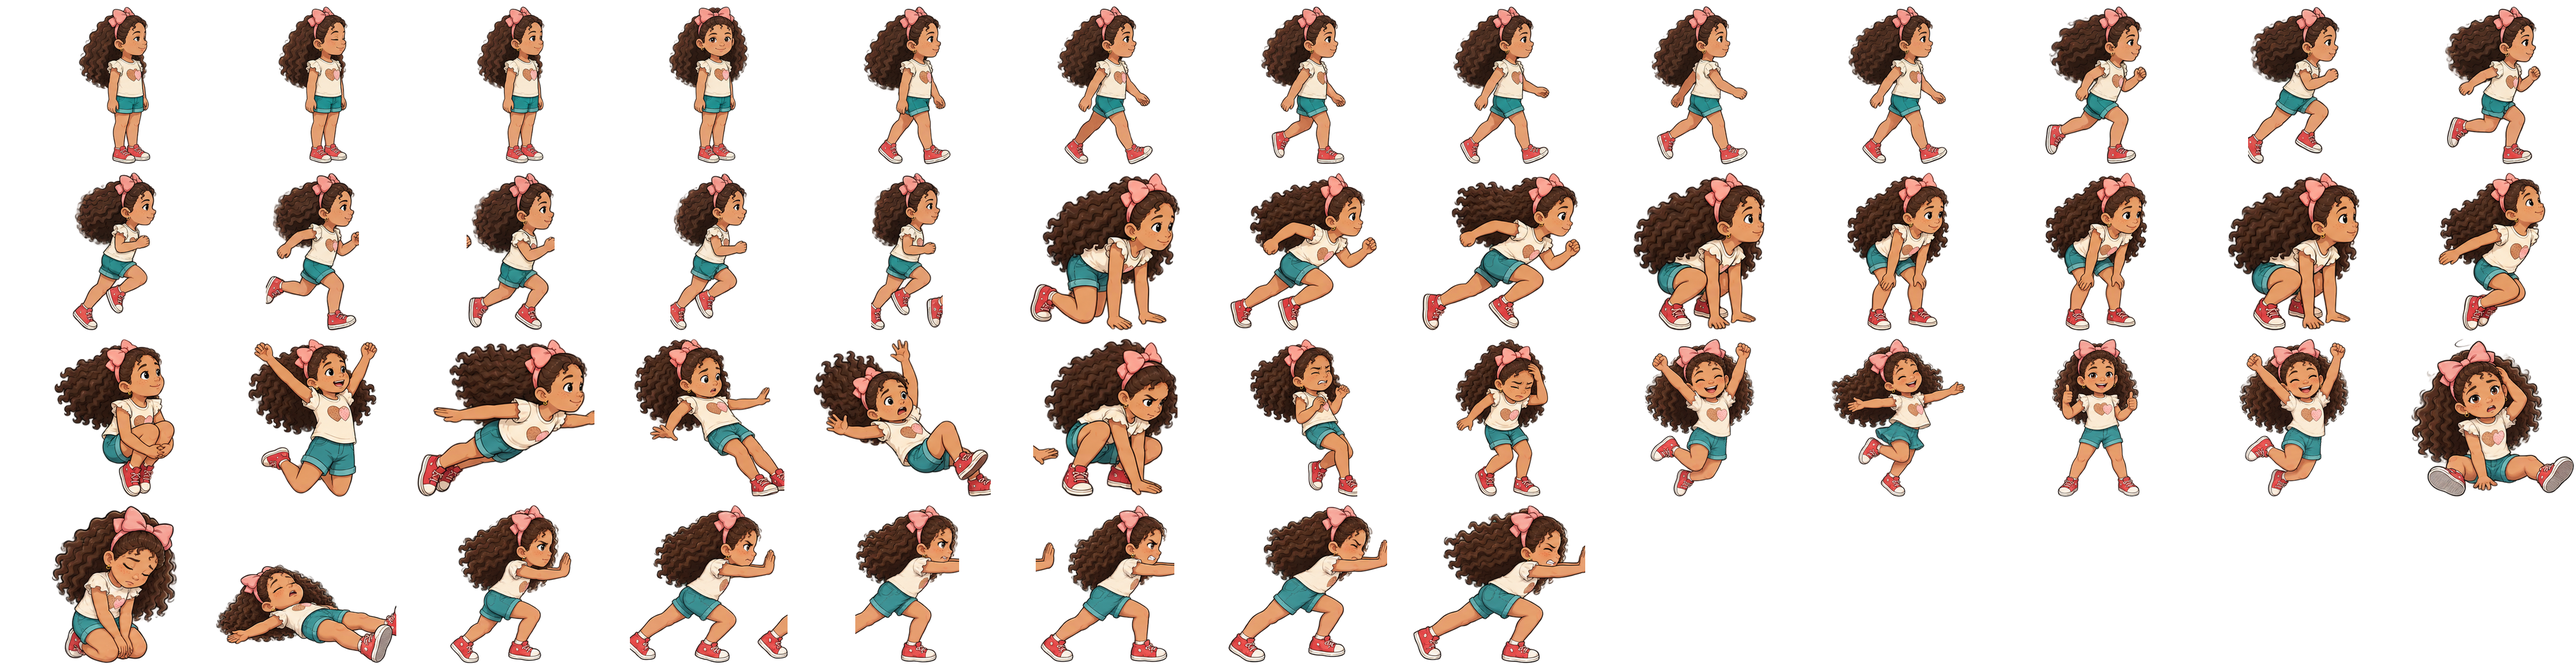
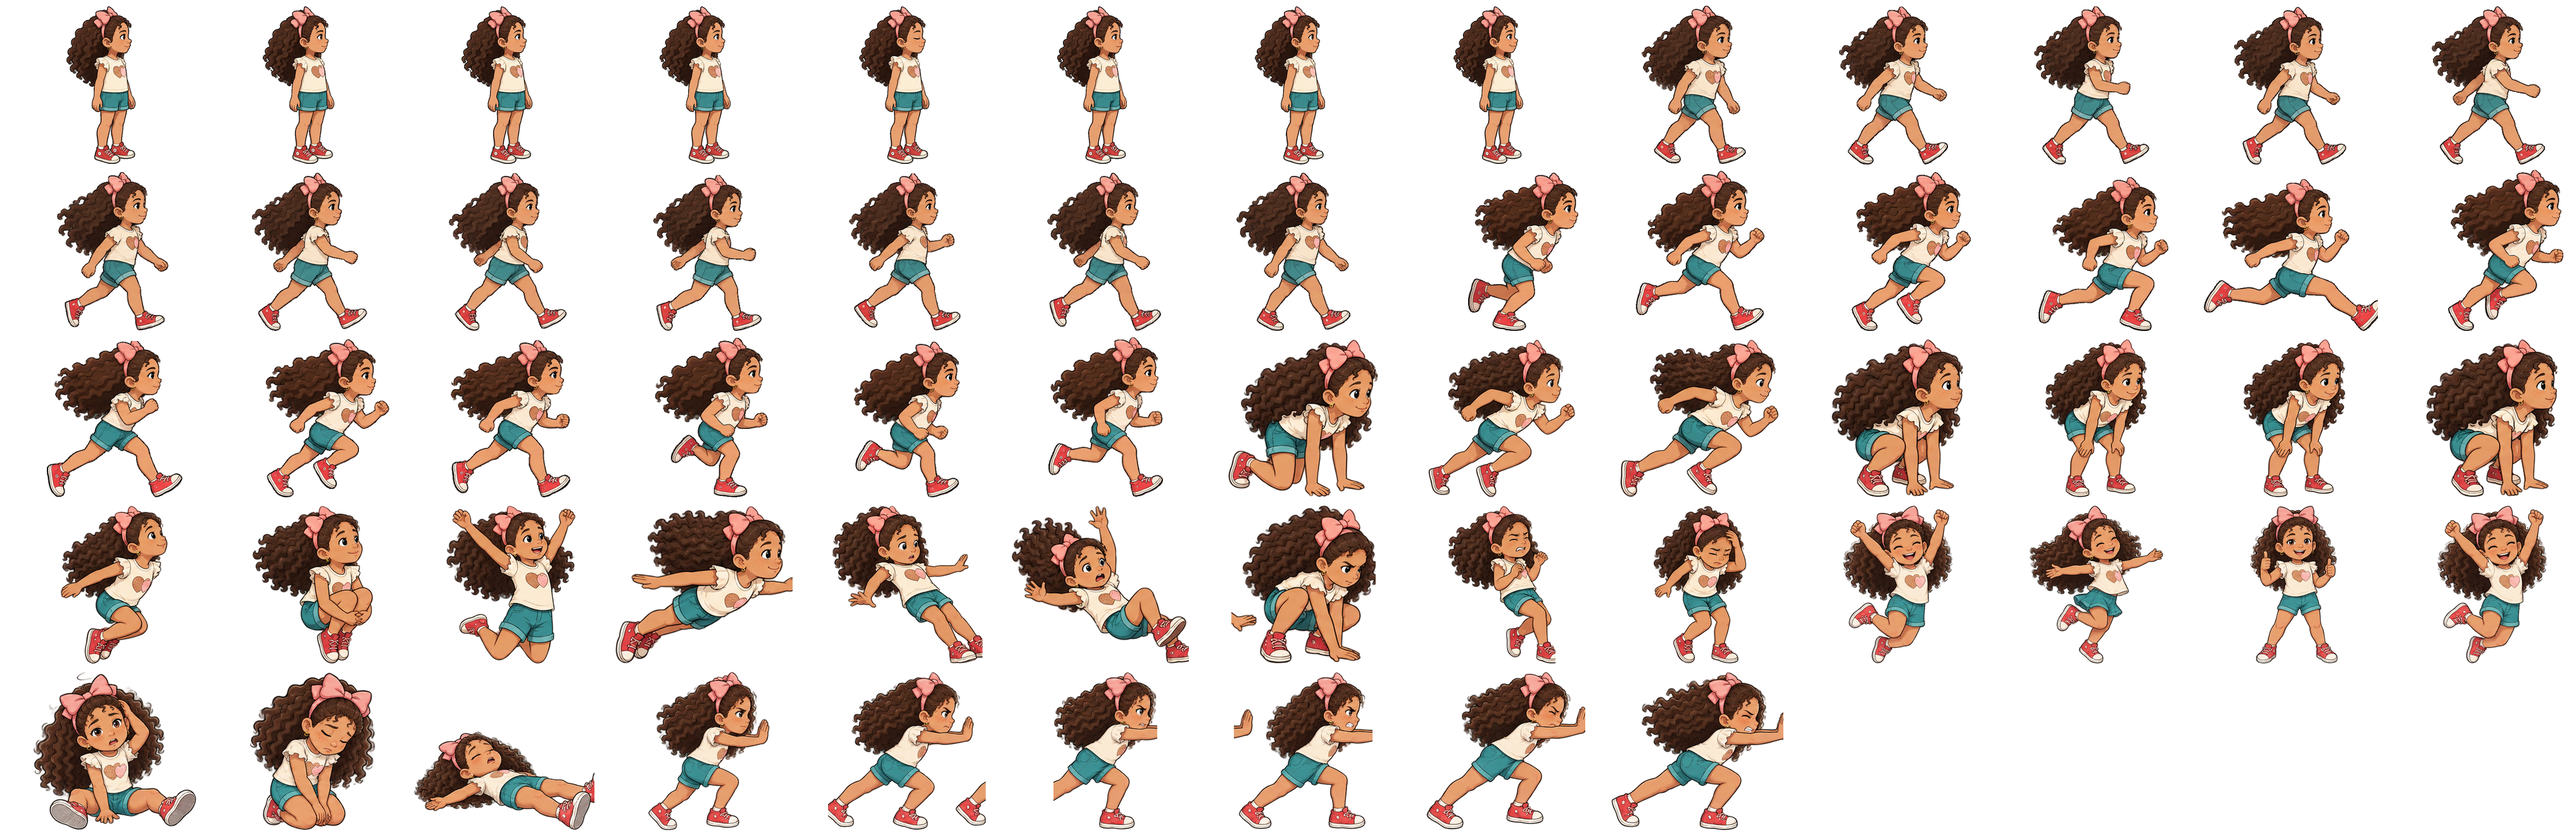
Base expanded: idle 4->8 (with blink), walk 6->12, run 8->12 fresh swim-style cycles; other anims remapped, fps retimed, validator PASS

diff --git a/src/assets/sprites.gen.ts b/src/assets/sprites.gen.ts
@@ -13,91 +13,91 @@ export const SPRITES = {
     "anims": {
       "idle": {
         "start": 0,
-        "end": 3,
-        "fps": 5,
+        "end": 7,
+        "fps": 10,
         "repeat": -1,
         "h": 243
       },
       "walk": {
-        "start": 4,
-        "end": 9,
-        "fps": 9,
+        "start": 8,
+        "end": 19,
+        "fps": 18,
         "repeat": -1,
         "h": 239
       },
       "run": {
-        "start": 10,
-        "end": 17,
-        "fps": 14,
+        "start": 20,
+        "end": 31,
+        "fps": 21,
         "repeat": -1,
         "h": 228
       },
       "start": {
-        "start": 18,
-        "end": 20,
+        "start": 32,
+        "end": 34,
         "fps": 18,
         "repeat": 0,
         "h": 248
       },
       "stop": {
-        "start": 21,
-        "end": 23,
+        "start": 35,
+        "end": 37,
         "fps": 14,
         "repeat": 0,
         "h": 243
       },
       "jump": {
-        "start": 24,
-        "end": 27,
+        "start": 38,
+        "end": 41,
         "fps": 20,
         "repeat": 0,
         "h": 232
       },
       "air": {
-        "start": 28,
-        "end": 28,
+        "start": 42,
+        "end": 42,
         "fps": 1,
         "repeat": -1,
         "h": 220
       },
       "fall": {
-        "start": 29,
-        "end": 30,
+        "start": 43,
+        "end": 44,
         "fps": 6,
         "repeat": -1,
         "h": 246
       },
       "land": {
-        "start": 31,
-        "end": 31,
+        "start": 45,
+        "end": 45,
         "fps": 1,
         "repeat": 0,
         "h": 208
       },
       "hurt": {
-        "start": 32,
-        "end": 33,
+        "start": 46,
+        "end": 47,
         "fps": 10,
         "repeat": 0,
         "h": 204
       },
       "celebrate": {
-        "start": 34,
-        "end": 37,
+        "start": 48,
+        "end": 51,
         "fps": 7,
         "repeat": -1,
         "h": 222
       },
       "defeat": {
-        "start": 38,
-        "end": 40,
+        "start": 52,
+        "end": 54,
         "fps": 5,
         "repeat": 0,
         "h": 180
       },
       "push": {
-        "start": 41,
-        "end": 46,
+        "start": 55,
+        "end": 60,
         "fps": 9,
         "repeat": -1,
         "h": 220
